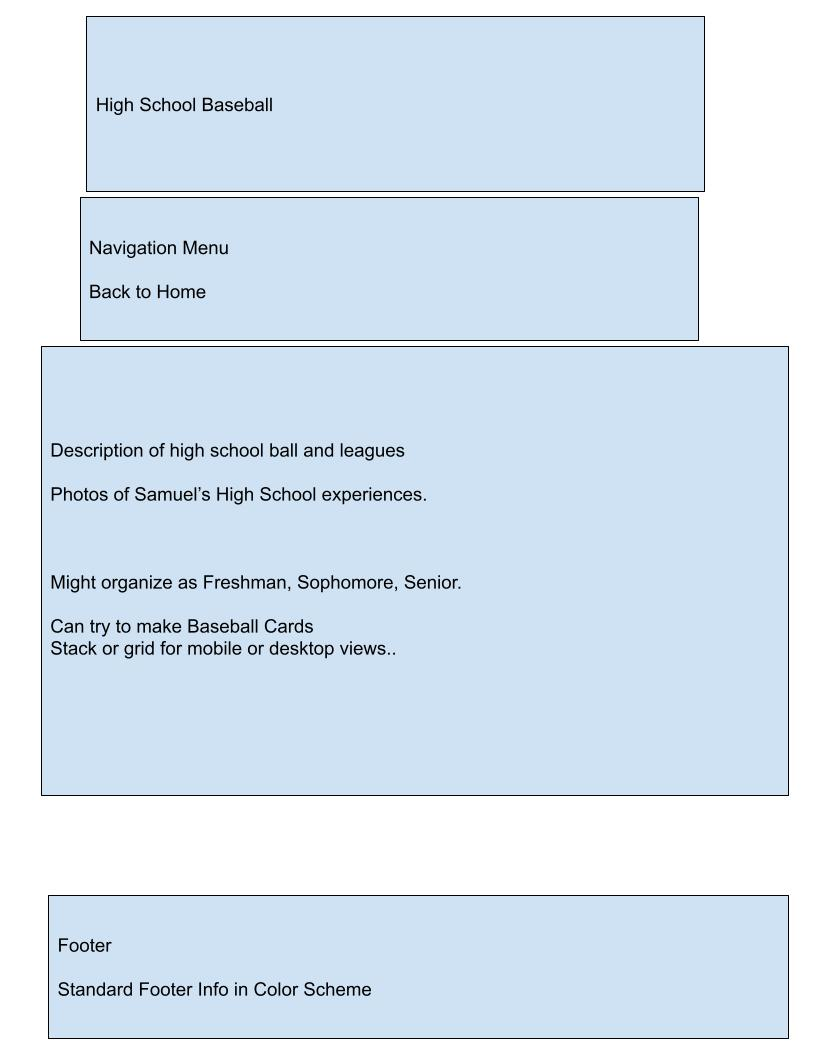
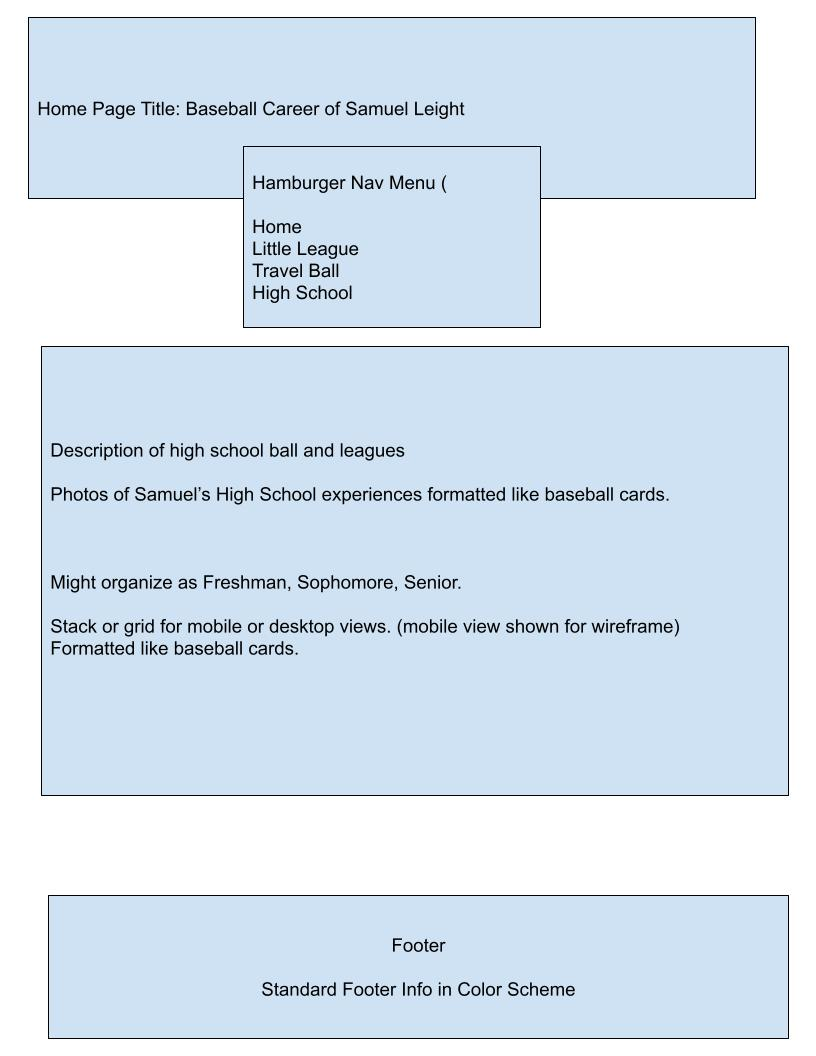
further updates to meet wireframe  critera

diff --git a/project/siteplan.html b/project/siteplan.html
@@ -33,7 +33,8 @@
         <h1>Typography</h1>
         <p>The plan is to use Carter One Google font for bold types.  Roboto Flex Google font for text and lower emphasis.</p>.
         <h1>Site Plans</h1>
-        <img src="images/site-plan-home.jpg" alt="Home Page Site Plan" loading="lazy">
+        <img src="images/site-plan-home-mobile.jpg" alt="Home Page Site Plan" loading="lazy">
+        <img src="images/site-plan-home-desk.jpg" alt="Home Page Site Plan" loading="lazy">
         <img src="images/little-league.jpg" alt="Little League Page Site Plan" loading="lazy">
         <img src="images/high-school.jpg" alt="Travel Ball Page Site Plan" loading="lazy">
         <img src="images/high-school.jpg" alt="High School Ball Page Site Plan" loading="lazy">
